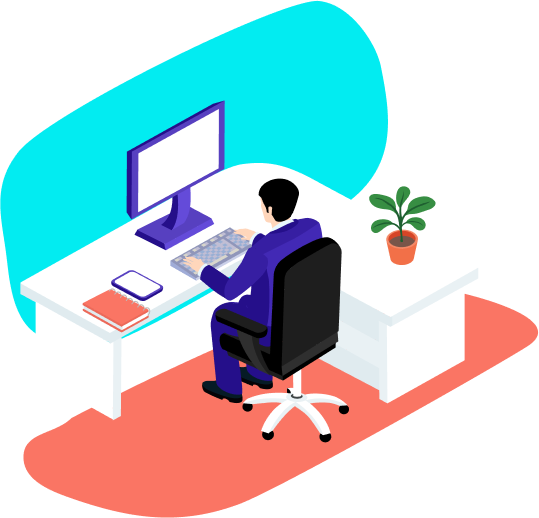
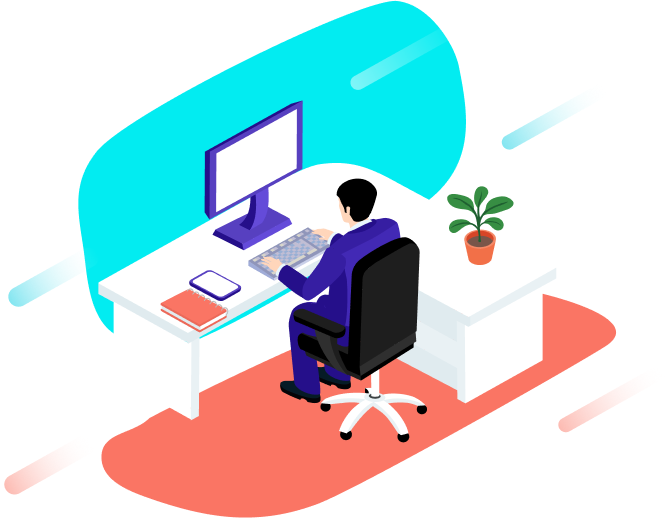
feat: add images svg

diff --git a/css/style.css b/css/style.css
@@ -208,11 +208,14 @@ a {
 .advantages-box {
     display: flex;
     justify-content: space-between;  
+    padding-bottom: 76px;
 }
 
 .advantages-box__info {
     max-width: 455px;
     padding-top: 60px;
+    background-image: url(../img/title-bg-1.svg);
+    background-repeat: no-repeat;
 }
 
 .advantages-box__title {
@@ -235,6 +238,7 @@ a {
 }
 
 .advantages-box__images {
+
 
 }
 
